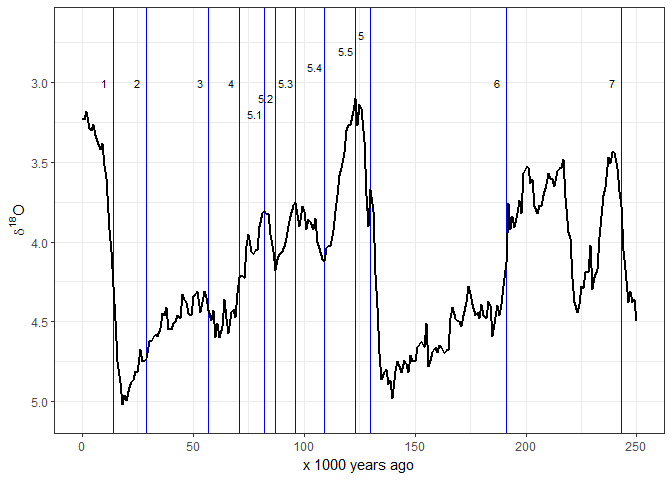
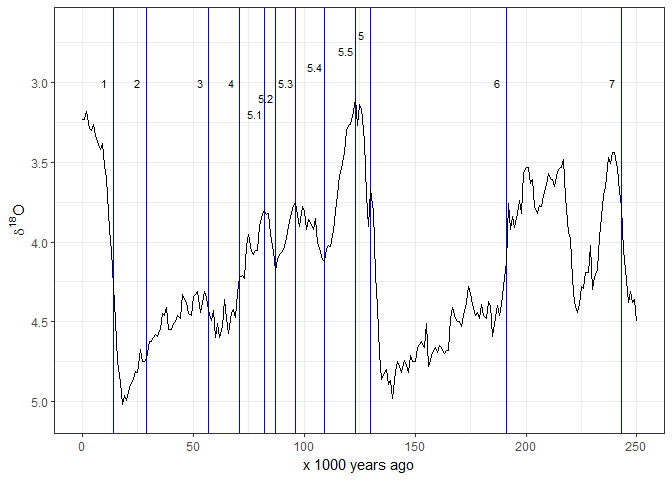
reduce line width

diff --git a/README.md b/README.md
@@ -119,8 +119,7 @@ ggplot() +
            size = 3) +
   geom_line(data = lisiecki2005,                # add d18O line
             aes(Time,
-                d18O),
-            size = 0.75) +  
+                d18O)) +  
   scale_x_continuous(limits = c(0, 250),
                      name = "x 1000 years ago") +
   scale_y_reverse(name = bquote(delta^18*O)) +
@@ -149,8 +148,7 @@ ggplot() +
            size = 3) +
   geom_line(data = lisiecki2005,                # add d18O line
             aes(Time,
-                d18O),
-            size = 0.75) +  
+                d18O)) +  
   scale_x_continuous(limits = c(0, 250),
                      name = "x 1000 years ago") +
   scale_y_reverse(name = bquote(delta^18*O)) +
@@ -180,8 +178,7 @@ ggplot() +
            size = 3) +
   geom_line(data = lisiecki2005,                # add d18O line
             aes(Time,
-                d18O),
-            size = 0.75) +  
+                d18O)) +  
   scale_x_continuous(limits = c(0, 250),
                      name = "x 1000 years ago") +
   scale_y_reverse(name = bquote(delta^18*O)) +
